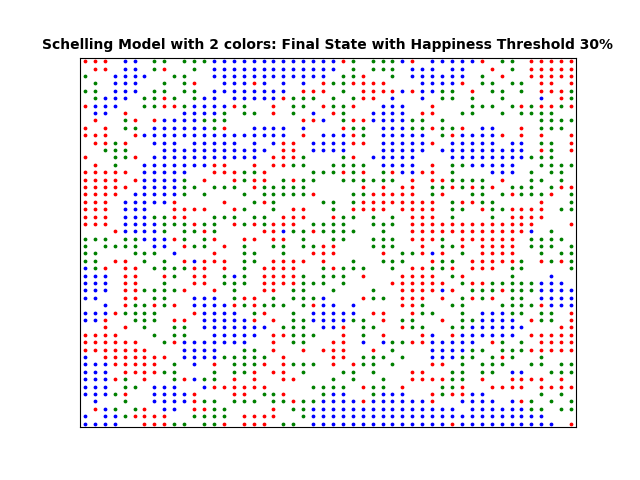
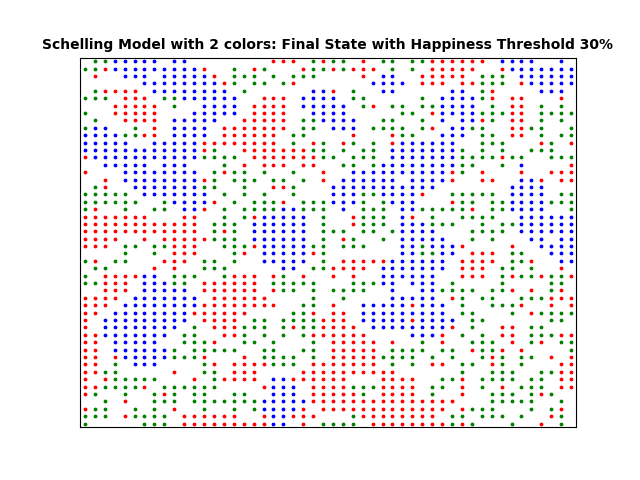
Adding neighborhood feature to program

Changed region(s): [[0.125, 0.125, 0.9062, 0.9062]]

diff --git a/Spring-2024/Multi-Agent-Systems/Program-2/Segregation.py b/Spring-2024/Multi-Agent-Systems/Program-2/Segregation.py
@@ -14,7 +14,7 @@ import copy
 
 
 class Schelling:
-    def __init__(self, width, height, empty_ratio, similarity_threshold, n_iterations, colors=2):
+    def __init__(self, width, height, empty_ratio, similarity_threshold, n_iterations, neighborhood, colors=2):
         self.agents = None
         self.width = width
         self.height = height
@@ -23,6 +23,7 @@ class Schelling:
         # self.similarity_threshold = similarity_threshold
         self.similarity_threshold = dict()
         self.n_iterations = n_iterations
+        self.neighborhood = neighborhood
         # TODO: Add a feature where the similarity_threshold can be different for each of the colors
         for c in range(colors):
             self.similarity_threshold[c + 1] = similarity_threshold[c]
@@ -119,30 +120,49 @@ class Schelling:
                 is_unsatisfied = self.is_unsatisfied(agent[0], agent[1])
                 if is_unsatisfied:
                     choice = "empty_house"
+                    house_outside_neighborhood = True
                     if len(self.willing_to_swap) > 2:
                         choice = random.choice(self.choices)
                     # TODO: Add a feature where agents can improve on their current location by performing a location swap with another agent who is willing to swap
                     if choice == "swap_house":
-                        swapping_house_with = random.choice(self.willing_to_swap)
-                        swapping_agent_color = self.agents[swapping_house_with]
-                        if swapping_agent_color != agent_color:
-                            self.agents[swapping_house_with] = agent_color
-                            self.agents[agent] = swapping_agent_color
-                            total_distance += abs(swapping_house_with[0] - agent[0]) + abs(swapping_house_with[1] - agent[1])
-                            if not self.is_unsatisfied(swapping_house_with[0], swapping_house_with[1]):
-                                self.willing_to_swap.remove(swapping_house_with)
-                        else:
-                            choice = "empty_house"
+                        # TODO: e.	Add a feature where you prefer to move to locations in the neighborhood.  The idea is that a move may be cheaper if the agent didn’t move as far.
+                        i = 0
+                        while house_outside_neighborhood and i < 20:
+                            swapping_house_with = random.choice(self.willing_to_swap)
+                            house_swap_location = abs(swapping_house_with[0] - agent[0]) + abs(swapping_house_with[1] - agent[1])
+                            if house_swap_location <= self.neighborhood:
+                                house_outside_neighborhood = False
+                                swapping_agent_color = self.agents[swapping_house_with]
+                                if swapping_agent_color != agent_color:
+                                    self.agents[swapping_house_with] = agent_color
+                                    self.agents[agent] = swapping_agent_color
+                                    total_distance += abs(swapping_house_with[0] - agent[0]) + abs(swapping_house_with[1] - agent[1])
+                                    if not self.is_unsatisfied(swapping_house_with[0], swapping_house_with[1]):
+                                        self.willing_to_swap.remove(swapping_house_with)
+                                else:
+                                    choice = "empty_house"
+                            else:
+                                house_outside_neighborhood = True
+
+                            if i == 20:
+                                choice = "empty_house"
+                            i += 1
 
                     if choice == "empty_house":
-                        empty_house = random.choice(self.empty_houses)
-                        self.agents[empty_house] = agent_color
-                        del self.agents[agent]
-                        self.empty_houses.remove(empty_house)
-                        self.empty_houses.append(agent)
-                        total_distance += abs(empty_house[0] - agent[0]) + abs(empty_house[1] - agent[1])
-                        if self.is_unsatisfied(empty_house[0], empty_house[1]):
-                            self.willing_to_swap.append(empty_house)
+                        while house_outside_neighborhood:
+                            empty_house = random.choice(self.empty_houses)
+                            empty_house_location = abs(empty_house[0] - agent[0]) + abs(empty_house[1] - agent[1])
+                            if empty_house_location <= self.neighborhood:
+                                house_outside_neighborhood = False
+                                self.agents[empty_house] = agent_color
+                                del self.agents[agent]
+                                self.empty_houses.remove(empty_house)
+                                self.empty_houses.append(agent)
+                                total_distance += abs(empty_house[0] - agent[0]) + abs(empty_house[1] - agent[1])
+                                if self.is_unsatisfied(empty_house[0], empty_house[1]):
+                                    self.willing_to_swap.append(empty_house)
+                            else:
+                                house_outside_neighborhood = True
 
                     n_changes += 1
                 # TODO: Add output to indicate the percentage of each agent type that meets the desired similarity_threshold
@@ -159,7 +179,7 @@ class Schelling:
                 for color in self.prev_temp_dict:
                     current_percentage = temp_dict[color]['met_threshold']/temp_dict[color]['total']
                     prev_percentage = self.prev_temp_dict[color]['met_threshold']/self.prev_temp_dict[color]['total']
-                    if current_percentage - prev_percentage < 0.005:
+                    if current_percentage - prev_percentage < 0.0005:
                         keep_iterating = False
                         break
             if keep_iterating:
@@ -254,17 +274,17 @@ class Schelling:
 
 def main():
     ##Starter Simulation
-    schelling_0 = Schelling(5, 5, 0.3, [0.75, 0.5, .7], 200, 3)
+    schelling_0 = Schelling(5, 5, 0.3, [0.75, 0.5, .7], 200, 10, 3)
     schelling_0.populate()
 
     ##First Simulation
-    schelling_1 = Schelling(50, 50, 0.3, [0.5, 0.8, 0.25], 200, 3)
+    schelling_1 = Schelling(50, 50, 0.3, [0.5, 0.8, 0.25], 200, 500, 3)
     schelling_1.populate()
 
-    schelling_2 = Schelling(50, 50, 0.3, [0.35, 0.5, 0.6], 200, 3)
+    schelling_2 = Schelling(50, 50, 0.3, [0.35, 0.5, 0.6], 200, 100, 3)
     schelling_2.populate()
 
-    schelling_3 = Schelling(50, 50, 0.3, [0.25, 0.55, 0.45], 200, 3)
+    schelling_3 = Schelling(50, 50, 0.3, [0.25, 0.55, 0.45], 200, 300, 3)
     schelling_3.populate()
 
     schelling_1.plot('Schelling Model with 2 colors: Initial State', 'files/schelling_2_initial.png')
